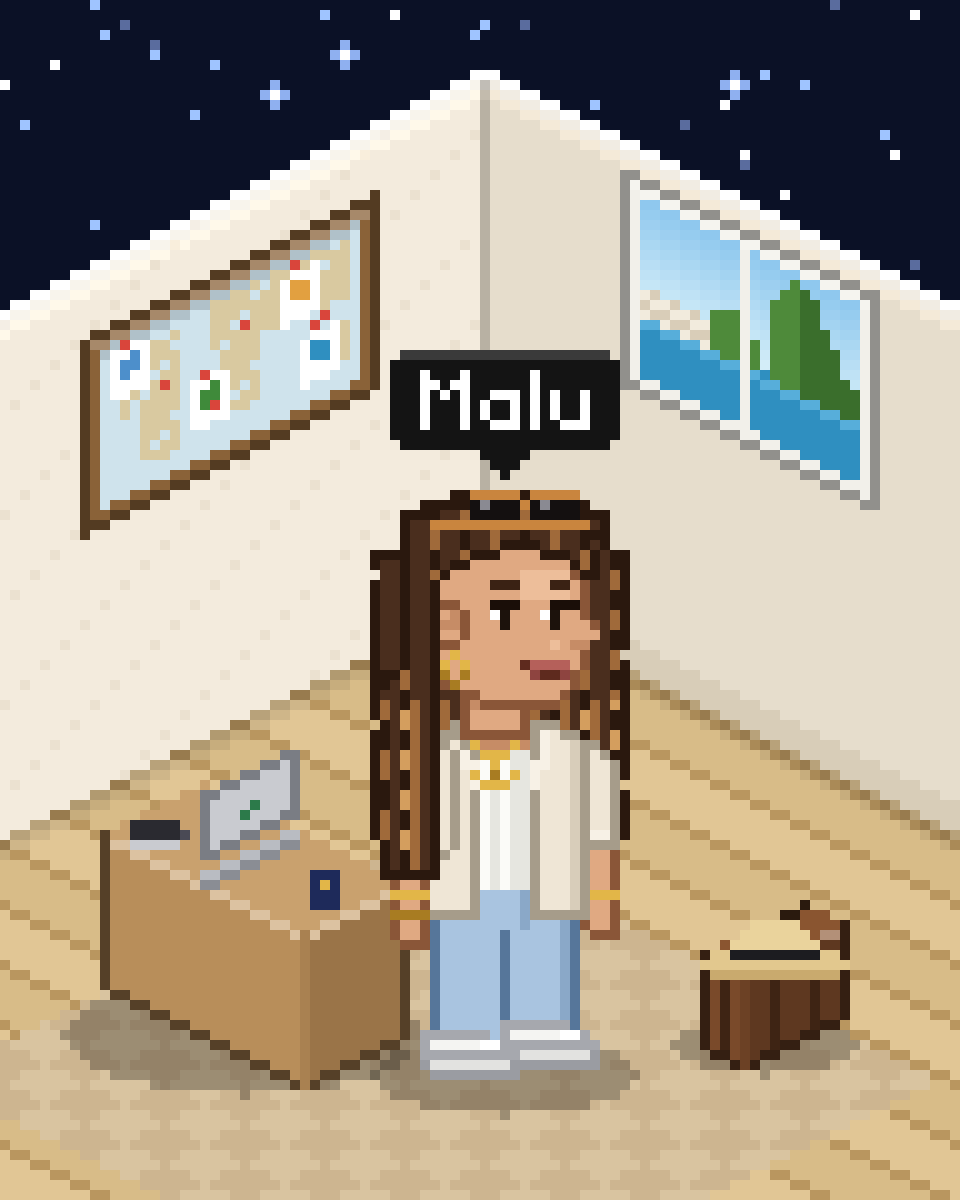
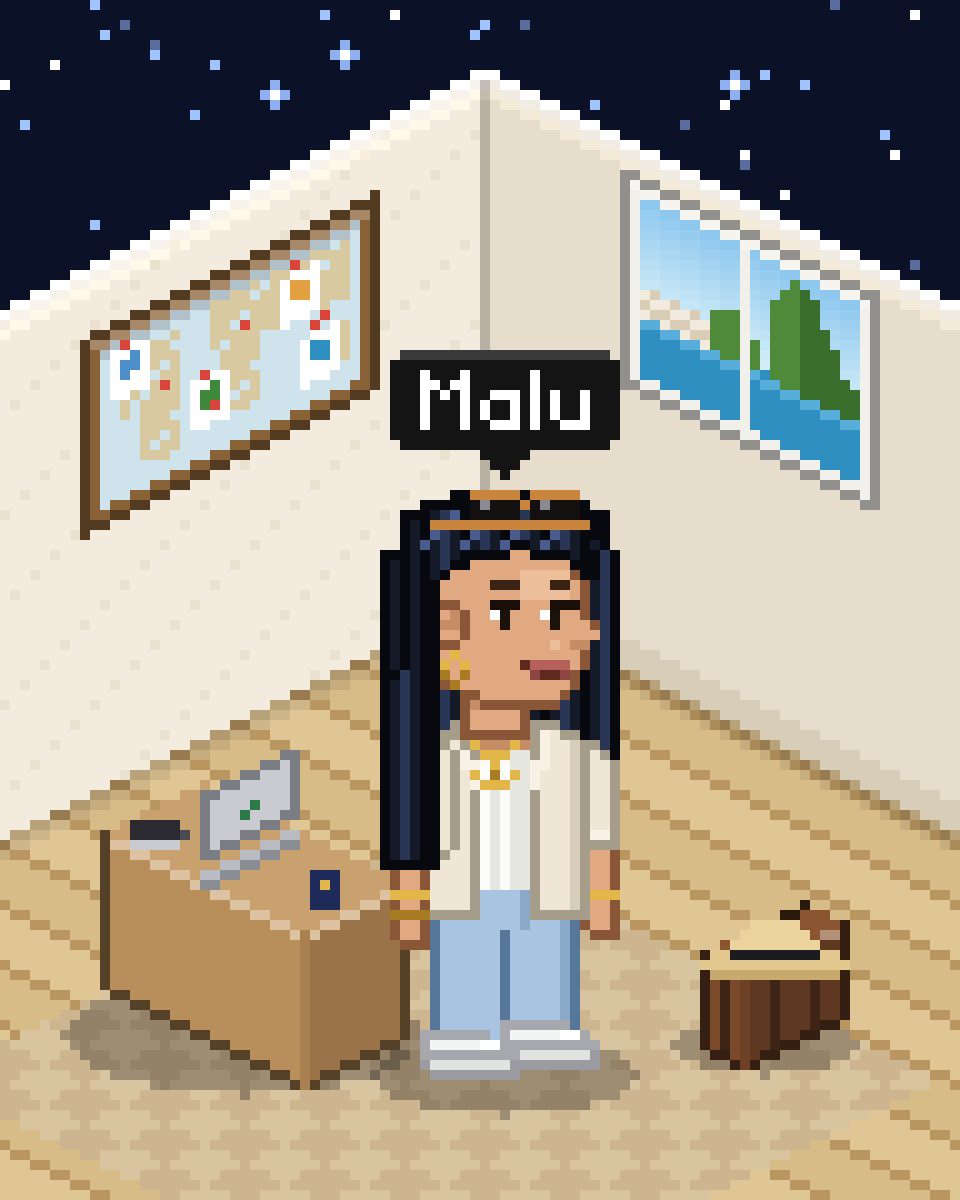
Diferencia os cabelos de Íris, Joana, Malu e Duda
Íris ganha um black power, Joana fica careca (com brilho na cabeça,
argolas grandes, piercings, delineado e batom vinho), Malu passa a ter
o cabelo liso e preto-azulado e Duda um coque alto com dois cachos
caindo na testa. Cartões, prancha e assets do jogo gerados de novo.

Claude-Session: https://claude.ai/code/session_01YJa75aoJvVifXZMgNoaUDJ

Changed region(s): [[0.375, 0.4008, 0.6562, 0.74]]

diff --git a/pixel-art-habbo/src/chars.py b/pixel-art-habbo/src/chars.py
@@ -1367,9 +1367,9 @@ def pra_ontem(pose='parado'):
 
 
 def iris():
-    """Íris, analista de cenários financeiros: coque alto de cachos com
-    mechas soltas, óculos de tartaruga gatinho, blazer verde-escuro, blusa
-    creme, argolas, colar de moeda e relógio dourado."""
+    """Íris, analista de cenários financeiros: black power redondo, óculos
+    de tartaruga gatinho, blazer verde-escuro, blusa creme, argolas, colar
+    de moeda e relógio dourado."""
     S = Sprite(40, 70)
     P = dict(sk=rgb('#A86A44'), sks=rgb('#8C5536'), skl=rgb('#BE8158'), skline=rgb('#5A3420'))
     blazer = (rgb('#2F4A36'), rgb('#263D2C'), rgb('#13221A'))
@@ -1379,15 +1379,19 @@ def iris():
     tex = curls(hair, haird, hairl)
     ctex = lambda x, y, c: hairll if (x * 5 + y * 3) % 19 == 0 else tex(x, y, c)
 
+    # black power: uma nuvem redonda de cachinhos em volta da cabeça
+    def afro(x, y):
+        return y >= 0 and ((x - 19.5) / 14.5) ** 2 + ((y - 11.5) / 12.5) ** 2 <= 1
     hb = Layer(hair, haird)
-    hb.rows({y: (8, 29) for y in range(6, 10)})
-    hb.rows({y: (7, 30) for y in range(10, 20)})
-    hb.rows({y: [(8, 13), (26, 29)] for y in range(20, 26)})
-    hb.rows({26: (9, 12), 27: (10, 11)})
+    for y in range(0, 26):
+        for x in range(4, 36):
+            if afro(x, y):
+                hb.set(x, y)
     hb.recolor(ctex)
     hb.outline()
-    for p in ((7, 14), (30, 16), (29, 24)):
-        hb.px.pop(p, None)
+    for (x, y) in hb.edges():
+        if (x * 7 + y * 3) % 5 == 0:
+            hb.px.pop((x, y), None)
     S.add(hb)
 
     _far_arm_sl(S, P, blazer, 40, watch=(GOLD, rgb('#F7EFD0')))
@@ -1418,41 +1422,34 @@ def iris():
     for p in ((22, 15), (16, 14), (27, 14), (27, 13), (14, 15), (15, 15)):
         S.set(*p, tort)
 
+    # a parte da frente do black emoldura a testa e cobre as orelhas
     hf = Layer(hair, haird)
-    hf.rows({0: (14, 22), 1: (11, 25), 2: (9, 27), 3: (8, 28), 4: (7, 29), 5: (7, 29), 6: (7, 29),
-             7: (8, 29), 8: (9, 28), 9: (9, 28), 10: [(9, 15), (24, 28)], 11: [(9, 13), (27, 28)]})
-    hf.rows({y: (9, 11) for y in range(12, 23)})
+    for y in range(0, 26):
+        for x in range(4, 36):
+            front = y <= 10 or x <= 12 or (y <= 11 and (x <= 15 or x >= 25))
+            if afro(x, y) and front:
+                hf.set(x, y)
     hf.recolor(ctex)
     hf.outline()
-    for p in ((7, 4), (29, 6), (15, 10), (9, 16), (9, 21)):
-        hf.px.pop(p, None)
+    for (x, y) in hf.edges():
+        if (x * 7 + y * 3) % 5 == 0 and (x < 8 or x > 31 or y < 2):
+            hf.px.pop((x, y), None)
     S.add(hf)
     _hoop(S, 14, 20)
     return S.image()
 
 
 def joana():
-    """Joana, negociadora de resultados: tranças longas com luzes caramelo
-    e coque no alto, blazer bege com botões dourados, blusa creme, argolas
-    grandes, colar e relógio dourado."""
+    """Joana, negociadora de resultados: careca e estilosa, com brilho na
+    cabeça, argolas grandes e piercings dourados na orelha, delineado e
+    batom vinho; blazer bege com botões dourados, blusa creme, colar e
+    relógio dourado."""
     S = Sprite(40, 70)
     P = dict(sk=rgb('#8A5232'), sks=rgb('#6E3E24'), skl=rgb('#A0623E'), skline=rgb('#3E2010'))
     blazer = (rgb('#D9C2A0'), rgb('#C2A983'), rgb('#8A7350'))
     P['teeline'] = blazer[2]
     light = rgb('#EAD8BA')
-    tw = twists(rgb('#140C07'), rgb('#2A1A12'), rgb('#9A6A34'), rgb('#D2A456'))
 
-    hb = Layer(rgb('#2A1A12'), rgb('#140C07'))
-    hb.rows({0: (15, 21), 1: (13, 23), 2: (13, 23), 3: (14, 22), 4: (12, 25), 5: (10, 27)})
-    hb.rows({y: (9, 28) for y in range(6, 10)})
-    hb.rows({y: [(6, 13), (26, 31)] for y in range(10, 25)})
-    hb.rows({y: [(5, 14), (26, 31)] for y in range(25, 41)})
-    hb.rows({y: (5, 14) for y in range(41, 47)})
-    hb.recolor(lambda x, y, c: tw(x, y, c) if y > 5 else (rgb('#9A6A34') if (x + y) % 4 == 0 else None))
-    hb.outline()
-    for p in ((5, 46), (8, 46), (11, 46), (14, 46), (31, 40), (28, 40)):
-        hb.px.pop(p, None)
-    S.add(hb)
 
     _far_arm_sl(S, P, blazer, 40, watch=(GOLD, rgb('#F7EFD0')))
     _slacks(S, blazer, top=44)
@@ -1473,42 +1470,64 @@ def joana():
     S.set(22, 22, rgb('#6E3428'))
     S.set(25, 22, rgb('#6E3428'))
 
-    hf = Layer(rgb('#2A1A12'), rgb('#140C07'))
-    hf.rows({y: (9, 12) for y in range(10, 20)})
-    hf.rows({y: (8, 13) for y in range(20, 25)})
-    hf.rows({y: (6, 13) for y in range(25, 45)})
-    hf.rows({45: (7, 12)})
-    hf.recolor(tw)
-    hf.outline()
-    for p in ((6, 44), (9, 45), (12, 45)):
-        hf.px.pop(p, None)
-    S.add(hf)
-    for dx, dy in ((0, 0), (-1, 1), (-1, 2), (-1, 3), (0, 4), (1, 3), (1, 2), (1, 1)):
-        S.set(15 + dx, 19 + dy, GOLD if dy < 2 else GOLDD)
+    # careca: brilho no alto da cabeça e a nuca na sombra
+    shine, shine2 = rgb('#B8784C'), rgb('#DCA27A')
+    for x, y in ((19, 10), (20, 10), (21, 10), (22, 11), (23, 11), (18, 11)):
+        S.set(x, y, shine)
+    S.set(20, 10, shine2)
+    S.set(21, 10, shine2)
+    # delineado gatinho, sobrancelha arqueada e batom vinho
+    for x, y in ((17, 14), (27, 14), (26, 15)):
+        S.set(x, y, rgb('#0E0805'))
+    for x, y in ((18, 13), (19, 12), (20, 12), (21, 13), (24, 12), (25, 12), (26, 13)):
+        S.set(x, y, rgb('#140A06'))
+    for x in (19, 20, 24, 25):
+        S.set(x, 13, P['sk'])
+    for x in range(22, 26):
+        S.set(x, 21, rgb('#7A2430'))
+    S.set(22, 22, rgb('#5A1A22'))
+    S.set(25, 22, rgb('#5A1A22'))
+    S.set(23, 21, rgb('#A0404A'))
+    # orelha à mostra: piercings na borda e argola grande
+    for x, y in ((12, 15), (12, 17)):
+        S.set(x, y, GOLD)
+    S.set(13, 15, GOLDD)
+    for x, y in ((14, 20), (13, 21), (12, 22), (12, 23), (12, 24), (13, 25), (14, 26), (15, 25),
+                 (16, 24), (16, 23), (16, 22), (15, 21)):
+        S.set(x, y, GOLD if y < 23 else GOLDD)
     return S.image()
 
 
 def malu():
-    """Malu, de experiências, viagens e histórias: cabelo longo ondulado com
-    luzes, óculos de sol na cabeça, camisa de linho creme aberta sobre
-    regata branca, colares e pulseiras dourados, jeans claro e tênis."""
+    """Malu, de experiências, viagens e histórias: cabelo longo, liso e
+    preto-azulado, óculos de sol na cabeça, camisa de linho creme aberta
+    sobre regata branca, colares e pulseiras dourados, jeans claro e tênis."""
     S = Sprite(40, 70)
     P = _white_sneakers(dict(sk=rgb('#E0A982'), sks=rgb('#C68C66'), skl=rgb('#EDBE9A'), skline=rgb('#8A5638'),
                              pant=rgb('#A9C4E0'), pants=rgb('#8AA8C8'), pantline=rgb('#56769A')))
     linen = (rgb('#EFE6D6'), rgb('#D8CDBA'), rgb('#A69C8A'))
     P['teeline'] = linen[2]
-    wv = waves_tex(rgb('#4A2E1E'), rgb('#2A180E'), rgb('#A06A3A'), rgb('#D49E5E'))
+    hair, haird = rgb('#151A28'), rgb('#07090F')
+    blue, sheen = rgb('#2A3656'), rgb('#4A5C8E')
 
-    hb = Layer(rgb('#4A2E1E'), rgb('#2A180E'))
+    def sleek(x, y, c):
+        # liso: fios retos com reflexo azul e um brilho no alto da cabeça
+        if y < 10 and (x + y) % 4 == 0:
+            return sheen
+        if x % 4 == 1:
+            return blue
+        if x % 4 == 3:
+            return haird
+        return None
+
+    hb = Layer(hair, haird)
     hb.rows({4: (14, 24), 5: (11, 27)})
     hb.rows({y: (9, 29) for y in range(6, 10)})
-    hb.rows({y: (6, 31) for y in range(10, 31)})
-    hb.rows({y: [(6, 13), (26, 31)] for y in range(31, 39)})
-    hb.rows({y: (7, 12) for y in range(39, 43)})
-    hb.recolor(wv)
+    hb.rows({y: (7, 30) for y in range(10, 31)})
+    hb.rows({y: [(7, 13), (26, 30)] for y in range(31, 39)})
+    hb.rows({y: (7, 12) for y in range(39, 42)})
+    hb.recolor(sleek)
     hb.outline()
-    for p in ((6, 12), (31, 20), (6, 27), (31, 33), (7, 42)):
-        hb.px.pop(p, None)
     S.add(hb)
 
     _far_arm_sl(S, P, linen, 39, cuff=rgb('#F7F1E6'))
@@ -1536,15 +1555,13 @@ def malu():
     S.set(25, 22, rgb('#8E4440'))
     S.set(24, 19, P['skl'])
 
-    hf = Layer(rgb('#4A2E1E'), rgb('#2A180E'))
-    hf.rows({5: (12, 26), 6: (10, 28), 7: (9, 28), 8: (9, 28), 9: (9, 27), 10: [(9, 18), (23, 28)],
+    hf = Layer(hair, haird)
+    hf.rows({5: (12, 26), 6: (10, 28), 7: (9, 28), 8: (9, 28), 9: (9, 27), 10: [(9, 19), (22, 28)],
              11: [(9, 15), (26, 28)], 12: [(9, 13), (27, 28)]})
     hf.rows({y: (9, 12) for y in range(13, 22)})
-    hf.rows({y: (6 + (1 if (y // 3) % 2 else 0), 12) for y in range(22, 43)})
-    hf.recolor(wv)
+    hf.rows({y: (7, 12) for y in range(22, 42)})
+    hf.recolor(sleek)
     hf.outline()
-    for p in ((6, 42), (9, 21), (28, 7)):
-        hf.px.pop(p, None)
     S.add(hf)
     # óculos de sol na cabeça: lentes pretas, aro âmbar
     amber = rgb('#C9853E')
@@ -1562,26 +1579,16 @@ def malu():
 
 
 def duda():
-    """Duda, de auditoria e clareza financeira: tranças longas com o alto
-    preso e volumoso, blazer verde-oliva com botões dourados, blusa creme
+    """Duda, de auditoria e clareza financeira: coque alto com dois cachos
+    caindo na testa, blazer verde-oliva com botões dourados, blusa creme
     canelada, argolas grandes, colar de gráfico e relógio dourado."""
     S = Sprite(40, 70)
     P = dict(sk=rgb('#8E5536'), sks=rgb('#723F24'), skl=rgb('#A66A44'), skline=rgb('#40200E'))
     blazer = (rgb('#4E5634'), rgb('#3E452A'), rgb('#22271A'))
     P['teeline'] = blazer[2]
     light = rgb('#66704A')
-    tw = twists(rgb('#120A05'), rgb('#24160E'), rgb('#7A5028'), rgb('#B88A44'))
+    hair, haird, hairl = rgb('#24160E'), rgb('#120A05'), rgb('#5A3A22')
 
-    hb = Layer(rgb('#24160E'), rgb('#120A05'))
-    hb.rows({0: (13, 23), 1: (11, 25), 2: (10, 26), 3: (9, 27)})
-    hb.rows({y: (9, 28) for y in range(4, 10)})
-    hb.rows({y: [(5, 13), (26, 31)] for y in range(10, 37)})
-    hb.rows({y: (5, 13) for y in range(37, 45)})
-    hb.recolor(lambda x, y, c: tw(x, y, c) if y > 9 else curls(rgb('#24160E'), rgb('#120A05'), rgb('#7A5028'))(x, y, c))
-    hb.outline()
-    for p in ((5, 44), (8, 44), (11, 44), (31, 36), (28, 36)):
-        hb.px.pop(p, None)
-    S.add(hb)
 
     _far_arm_sl(S, P, blazer, 40, watch=(GOLD, rgb('#F7EFD0')))
     _slacks(S, blazer, top=44, flare=False)
@@ -1604,14 +1611,32 @@ def duda():
     S.set(22, 22, rgb('#6A3228'))
     S.set(25, 22, rgb('#6A3228'))
 
-    hf = Layer(rgb('#24160E'), rgb('#120A05'))
-    hf.rows({y: (9, 12) for y in range(10, 21)})
-    hf.rows({y: (6, 12) for y in range(21, 44)})
-    hf.recolor(tw)
-    hf.outline()
-    for p in ((6, 43), (9, 43), (12, 43)):
-        hf.px.pop(p, None)
-    S.add(hf)
+    # cabelo puxado para trás, liso na cabeça
+    cap = Layer(hair, haird)
+    cap.rows({5: (13, 24), 6: (11, 26), 7: (10, 27), 8: (9, 28), 9: (9, 28), 10: (9, 14), 11: (9, 13)})
+    cap.rows({y: (9, 12) for y in range(12, 19)})
+    cap.recolor(lambda x, y, c: hairl if (x * 2 - y) % 7 == 0 else None)
+    cap.outline()
+    S.add(cap)
+    # coque alto de cachos
+    bun = Layer(hair, haird)
+    bun.rows({0: (15, 21), 1: (13, 23), 2: (12, 24), 3: (12, 24), 4: (13, 23), 5: (14, 22)})
+    bun.recolor(curls(hair, haird, hairl))
+    bun.outline()
+    S.add(bun)
+    # os dois cachos caindo na testa: cada um sai da linha do cabelo e
+    # termina num anelzinho; alturas diferentes, para não virar par de óculos
+    for x in (18, 19, 20, 24, 25):
+        S.set(x, 13, P['sk'])
+    curls_ = (((20, 9), (20, 10), (19, 11), (18, 12), (20, 12), (19, 13), (20, 14)),
+              ((24, 9), (25, 10), (24, 11), (26, 11), (25, 12)))
+    for pts in curls_:
+        for k, p in enumerate(pts):
+            S.set(*p, haird if k % 2 == 0 else hair)
+    S.set(19, 12, P['sks'])
+    S.set(25, 11, P['sks'])
+    S.set(18, 13, rgb('#140A05'))
+    S.set(26, 13, rgb('#140A05'))
     for dx, dy in ((0, 0), (-1, 1), (-1, 2), (-1, 3), (0, 4), (1, 3), (1, 2), (1, 1)):
         S.set(15 + dx, 19 + dy, GOLD if dy < 2 else GOLDD)
     return S.image()

diff --git a/pixel-art-habbo/README.md b/pixel-art-habbo/README.md
@@ -16,10 +16,10 @@ grade com tiles de 16x16 e personagens de 16x32.
 | 08 | Nina: coque bagunçado, argolas, blazer verde-oliva com a manga puxada, regata creme, cinto marrom, calça creme | estúdio de arquitetura: moodboard, estante com livros, mesa com planta impressa, amostras e maquete, ficus |
 | 09 | Otto: grisalho ondulado, barba branca, óculos redondos de tartaruga, camisa branca, colete de tricô oliva, gravata listrada | arquivo da memória: parede de madeira, gravura antiga, retratos sépia, fichário de gavetinhas, mesa com luminária verde e chá |
 | 10 | Sr. Pra Ontem (Departamento das Urgências): grisalho, óculos pretos, barba grisalha, terno grafite, gravata verde, fone vermelho no ouvido | relógio de parede, placa URGENTE, mesa com pilhas de papel etiquetadas, telefone vermelho, despertador e ampulheta |
-| 11 | Íris (Analista de Cenários Financeiros): coque alto de cachos, óculos gatinho de tartaruga, blazer verde-escuro | quadro de gráfico, janela de fim de tarde, mesa com notebook, papéis e ampulheta, globo de chão |
-| 12 | Joana (Negociadora de Resultados): tranças longas com luzes e coque, blazer bege com botões dourados | quadro de alvo, estante de livros, mesa com notebook, caneca e livros, planta |
-| 13 | Malu (Experiências, Viagens e Histórias): cabelo longo ondulado com luzes, óculos de sol na cabeça, camisa de linho creme, jeans | mapa-múndi com polaroides, janela para o Pão de Açúcar, mesa com notebook, passaporte e câmera, mala com chapéu de palha |
-| 14 | Duda (Auditoria e Clareza Financeira): tranças com o alto preso, blazer verde-oliva com botões dourados | letreiro DUDA, quadro com o relatório (pizza e barras), mesa com notebook, papéis, lupa e ampulheta |
+| 11 | Íris (Analista de Cenários Financeiros): black power, óculos gatinho de tartaruga, blazer verde-escuro | quadro de gráfico, janela de fim de tarde, mesa com notebook, papéis e ampulheta, globo de chão |
+| 12 | Joana (Negociadora de Resultados): careca, argolas grandes e piercings dourados, delineado e batom vinho, blazer bege com botões dourados | quadro de alvo, estante de livros, mesa com notebook, caneca e livros, planta |
+| 13 | Malu (Experiências, Viagens e Histórias): cabelo longo, liso e preto-azulado, óculos de sol na cabeça, camisa de linho creme, jeans | mapa-múndi com polaroides, janela para o Pão de Açúcar, mesa com notebook, passaporte e câmera, mala com chapéu de palha |
+| 14 | Duda (Auditoria e Clareza Financeira): coque alto com dois cachos caindo na testa, blazer verde-oliva com botões dourados | letreiro DUDA, quadro com o relatório (pizza e barras), mesa com notebook, papéis, lupa e ampulheta |
 
 ## Estilo Habbo (`out/`)
 
